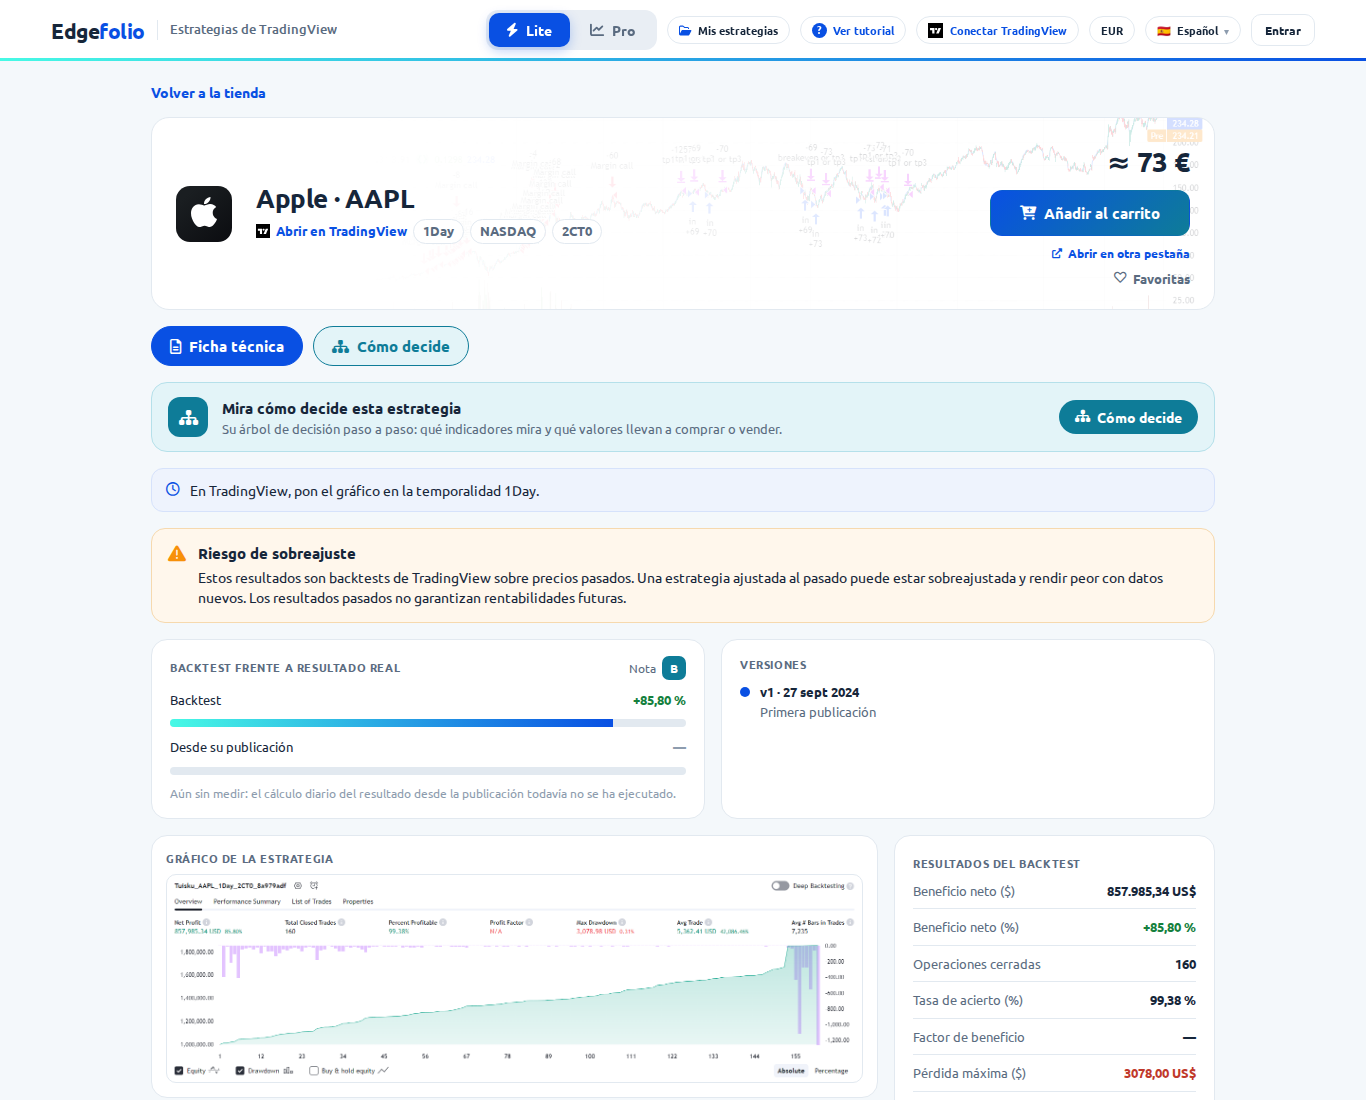
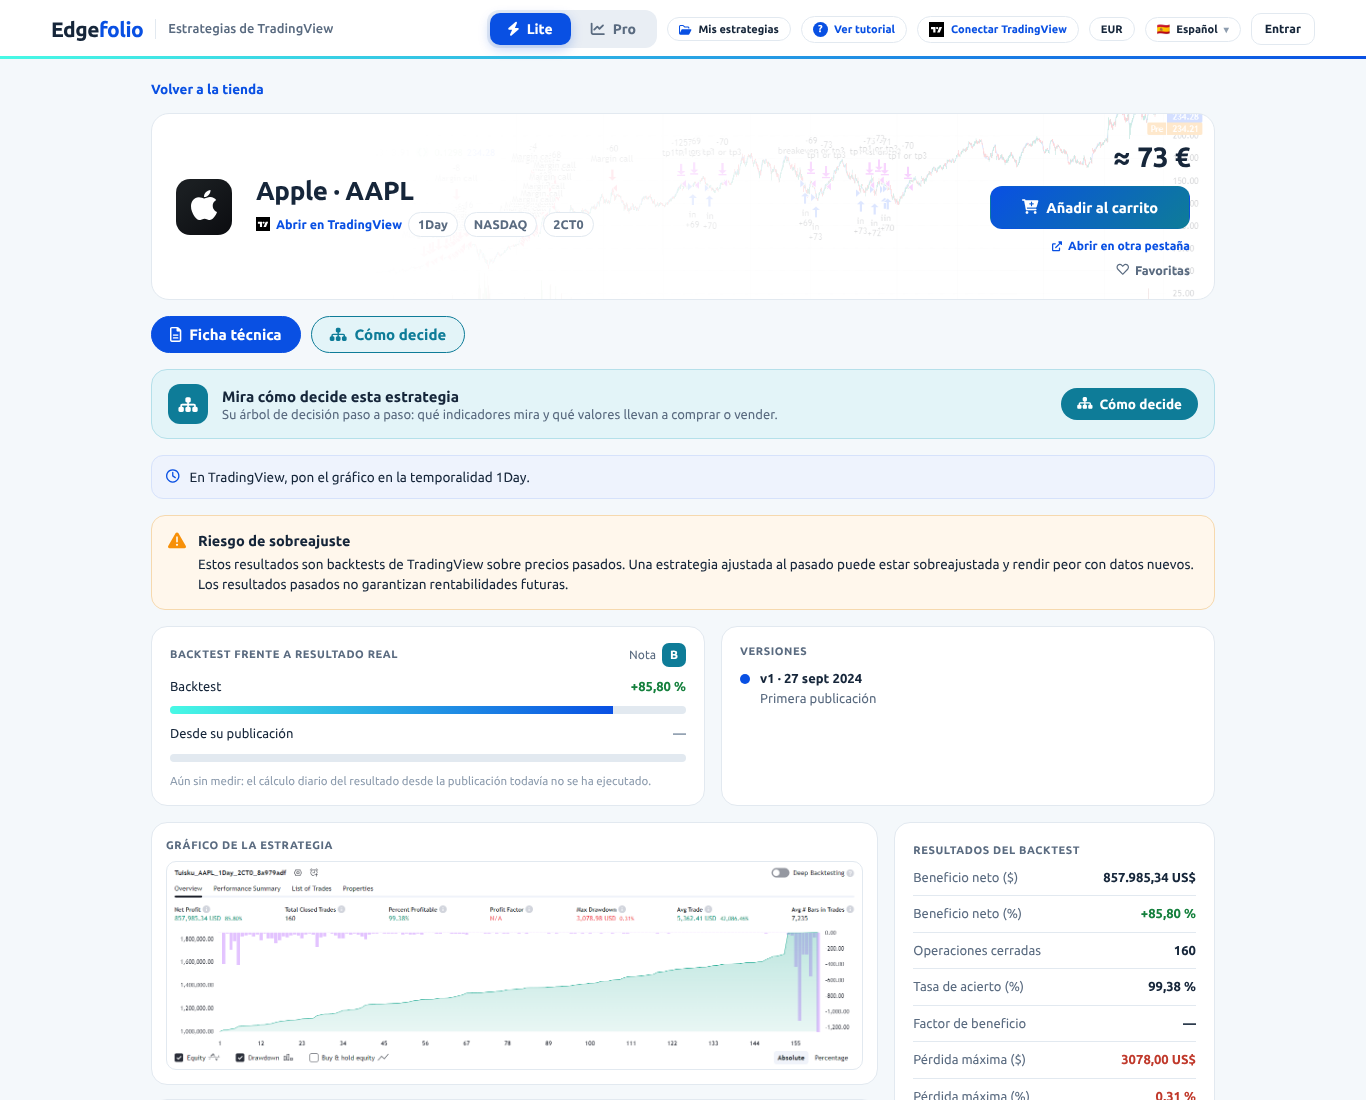
Screenshots retaken on the new design, and CAMBIOS.md final
- docs/img/: the 17 README shots again, from tools/screenshots.py on a
  fresh database (end to end, no console error), and three new ones:
  edgefolio_free_error.png, edgefolio_pro_es.png and
  edgefolio_phone_cart.png; README shows them.
- docs/handoff/2026-10-06/CAMBIOS.md: what the five per-screen checks
  found and how it was fixed; what stays different on purpose (the
  ladder's cent, the tree's colours by the script's levels, the free
  tree's wording, combined indicators linking to TradingView's scripts
  list, the toasts); a new request for the core (the bar wraps to two
  rows when signed in, because of the account's email); the tests.

Claude-Session: https://claude.ai/code/session_01DngmNHsEAX774MkraYKpDR

diff --git a/README.md b/README.md
@@ -40,7 +40,7 @@ entero y lo publica; lo que trae lo fija `catalogue/contract.json`, el contrato 
 <td><sub><b>Después de pagar:</b> las descargas y el tutorial para ponerla en TradingView.</sub></td>
 </tr>
 <tr>
-<td><img src="docs/img/edgefolio_mine.png" alt="Mis estrategias: cada compra con lo que dura su enlace, la tarjeta para confirmar un correo y las favoritas"></td>
+<td><img src="docs/img/edgefolio_mine.png" alt="Mis estrategias: cada compra con su .pine y su .zip, su ficha y cómo decide, lo que dura su enlace, la tarjeta para confirmar un correo y las favoritas"></td>
 <td align="center"><img src="docs/img/edgefolio_phone.png" alt="La tienda en un móvil, con la barra de abajo" width="260"></td>
 </tr>
 <tr>
@@ -92,13 +92,30 @@ entero y lo publica; lo que trae lo fija `catalogue/contract.json`, el contrato 
 <td><sub><b>En español</b>, con los precios en euros; 8 idiomas en total, los del menú del núcleo.</sub></td>
 <td><sub><b>Cómo decide</b>, en un móvil.</sub></td>
 </tr>
+<tr>
+<td><img src="docs/img/edgefolio_pro_es.png" alt="Pro en español con dos estrategias en el carrito: el total en euros y lo que se paga en dólares con PayPal"></td>
+<td align="center"><img src="docs/img/edgefolio_phone_cart.png" alt="Lite en un móvil con el carrito flotante y la píldora de Comparar encima, sobre la barra de abajo" width="260"></td>
+</tr>
+<tr>
+<td><sub><b>Pro en español:</b> el total en euros y, debajo, «Pagas … US$ con PayPal».</sub></td>
+<td><sub><b>El carrito en un móvil,</b> con Comparar encima, los dos sobre la barra de abajo.</sub></td>
+</tr>
+<tr>
+<td><img src="docs/img/edgefolio_free_error.png" alt="El diálogo de una gratis con un correo mal escrito: el aviso bajo el campo y el borde en rojo"></td>
+<td></td>
+</tr>
+<tr>
+<td><sub><b>Un correo mal escrito</b> se dice bajo el campo, con los textos del núcleo.</sub></td>
+<td></td>
+</tr>
 </table>
 
 <sub>Las capturas son de `tools/screenshots.py`, que recorre la tienda en un navegador de verdad contra el
 servidor local en modo de prueba: un carrito con un código, los filtros, una compra sin cuenta y una
 descarga de verdad, el alta en el núcleo y la confirmación del correo con el que se pagó, comparar, el
-pack, una gratis, tres idiomas y un móvil. Para en el primer paso que no funciona, y con cualquier error
-de la consola (también de la CSP).</sub>
+pack, una gratis, tres idiomas y un móvil; y cada cambio del diseño del 6 de octubre (el resultado del
+código, Esc, los errores del correo, la píldora de Comparar, el teclado). Para en el primer paso que no
+funciona, y con cualquier error de la consola (también de la CSP).</sub>
 
 ## Arrancar
 
